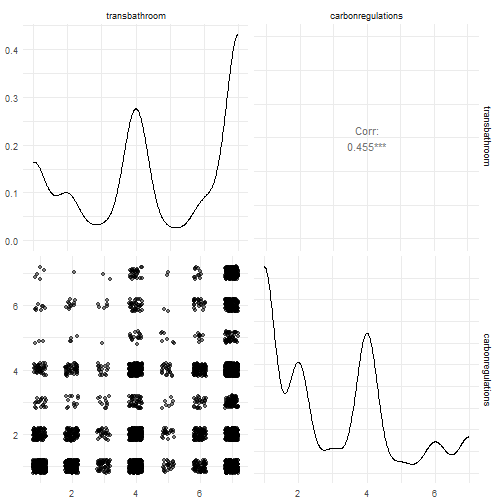
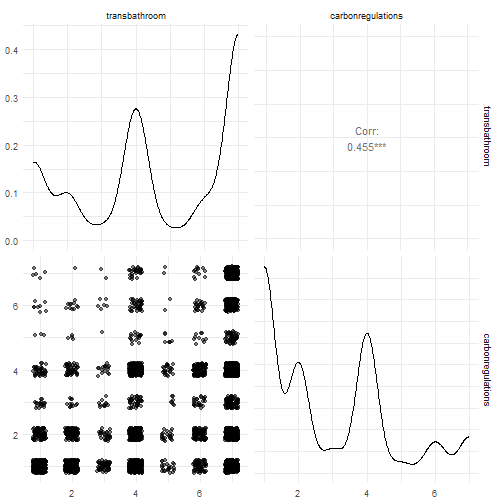
slide tweaks

diff --git a/Slides/FoundationsofInference.html b/Slides/FoundationsofInference.html
@@ -4,7 +4,7 @@
     <title>7: Foundations of Statistical Inference and Bivariate Regression</title>
     <meta charset="utf-8" />
     <meta name="author" content="Jaye Seawright" />
-    <meta name="date" content="2026-10-20" />
+    <meta name="date" content="2026-10-22" />
     <script src="FoundationsofInference_files/header-attrs-2.30/header-attrs.js"></script>
     <link rel="stylesheet" href="xaringan-themer.css" type="text/css" />
   </head>
@@ -182,8 +182,8 @@ That's where **regression** comes in.
 
 We'll use the 2024 ANES survey.
 
-- **transbathroom**: Support for laws requiring transgender individuals to use bathrooms matching sex assigned at birth (1 = favor a great deal, 5 = oppose a great deal).
-- **carbonregulations**: Support for government regulation of carbon emissions (1 = favor a great deal, 5 = oppose a great deal).
+- **transbathroom**: Support for allowing transgender individuals to use bathrooms that match gender identity (1 = favor a great deal, 7 = oppose a great deal).
+- **carbonregulations**: Support for government regulation of carbon emissions (1 = favor a great deal, 7 = oppose a great deal).
 
 
 ``` r
